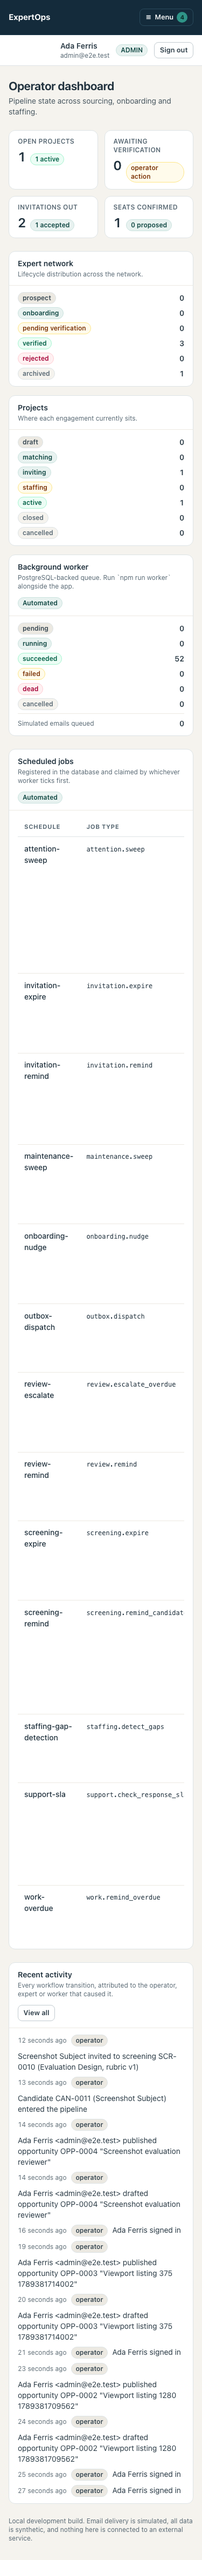
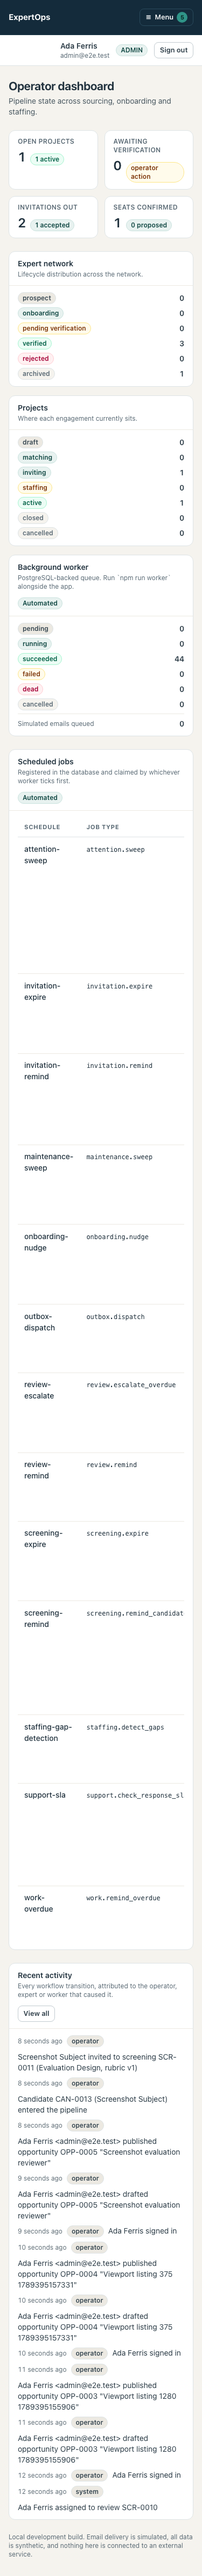
Write the exercise down, and refresh the screenshots
docs/network-exercise.md says what the exercise builds, what is
deliberately uneven about it, how to run it, and what separation of
duties does and does not mean here. The screenshots are regenerated from
the current build.

Claude-Session: https://claude.ai/code/session_01Q9tMXQKVu3a4FZD3t3pNbJ

diff --git a/docs/network-exercise.md b/docs/network-exercise.md
@@ -1,0 +1,94 @@
+# The hundred-contributor exercise
+
+A network of 100 synthetic experts, three projects, thirty seats, and the whole
+operational cycle run against it — matching, approved outreach, varied
+responses, onboarding, verification, withdrawal, replacement, work, review and
+payment preparation to an exported CSV.
+
+Everything here is synthetic. Email is simulated, no payment executes, and the
+100 people do not exist.
+
+---
+
+## What it builds
+
+| | |
+| --- | --- |
+| **PRJ-0001 · PRACTICE coding review pilot** | 12 seats, requires *Code Review* at 3/5, 40 people in the area |
+| **PRJ-0002 · PRACTICE enterprise process assessment** | 10 seats, requires *Process Analysis*, 35 people |
+| **PRJ-0003 · PRACTICE security posture review** | 8 seats, requires *Threat Modelling*, 25 people |
+
+Every expert is prefixed `NET` and every address ends `@example.test`.
+
+The 100 arrive by the two routes the product has, and the distinction matters:
+
+- **80 were entered by an operator.** Somebody the team already knew of, typed
+  in. Their stage history says exactly that.
+- **20 were screened and then qualified.** A candidate record, a screening
+  against a published rubric, a review, and a human decision to qualify — which
+  is what creates the expert. Nobody becomes an expert as a side effect of
+  filling in a form.
+
+**None of them applied to an opportunity.** Applications only ever arrive
+through `/apply/opportunities`, and the script reports the application count
+separately so the two can never be confused.
+
+The network is deliberately uneven, because a network where everybody qualifies
+proves nothing:
+
+- a quarter of each area fails a hard filter — skill proficiency below the bar,
+  or fewer years than the project asks for;
+- one in five never declares availability, so they accept and then cannot be
+  seated, and the attention queue says so by name;
+- rates run from $90 to $310 an hour against a $250 ceiling, so the ranking has
+  something to weigh;
+- some hold a second, project-scoped availability window: capacity already
+  committed elsewhere;
+- contact preferences are recorded in `notes`, because the model has no field
+  for them. That is a modelling gap, not a feature.
+
+## Running it
+
+```
+DATABASE_URL=<an isolated database> npx tsx scripts/network-exercise.ts
+```
+
+It refuses to run against the development database. It is idempotent: every
+phase asks whether its work is already done, so a second run creates nothing and
+rewinds nothing. Running it after the browser suite has taken a seat will top the
+seats back up from people who accepted.
+
+Everything goes through the same service functions the application calls, so
+every capability check, state-machine guard and audit entry applies exactly as
+it would to a person clicking. Nothing writes a business status directly.
+
+## The browser suites
+
+```
+npx playwright test --config playwright.exercise.config.ts
+```
+
+Port 3200, its own build directory, and — unlike `tests/e2e` — **no reset**. The
+network has to still be there afterwards, because the point is to inspect it.
+
+| File | What it drives |
+| --- | --- |
+| `journey.spec.ts` | One person from the public listing to a confirmed seat: application, operator review, screening, revision request, resubmission, human qualification, profile, invitation, acceptance, onboarding, verification, seat. Three browser contexts. |
+| `scale.spec.ts` | The things that only misbehave with data in them: paging, search by name and reference, status filters that agree with their own counts, capacity across three projects, the attention queue, outreach batch counts, and a job queue that drained. |
+| `payments.spec.ts` | Work assigned, submitted from the expert's own portal, approved for fewer hours than claimed, the difference explained by a person, batched, self-approval refused, approved by a second account, exported. |
+
+## What separation of duties means here
+
+The application refuses to let the account that created a payment batch be the
+account that approves it. The browser suite exercises that refusal with an ADMIN
+who can see the Approve button, and the batch stays pending.
+
+That is separation between **account identities**, which is what software can
+enforce. One person drove both sessions. It is not independent human approval
+and nothing in this exercise should be described as if it were.
+
+## What exporting does not mean
+
+Exporting marks the batch and its items `EXPORTED`. There is no `PAID` state in
+the schema to reach, no column in the CSV that could record a payment, and no
+action anywhere in the application that moves money.
